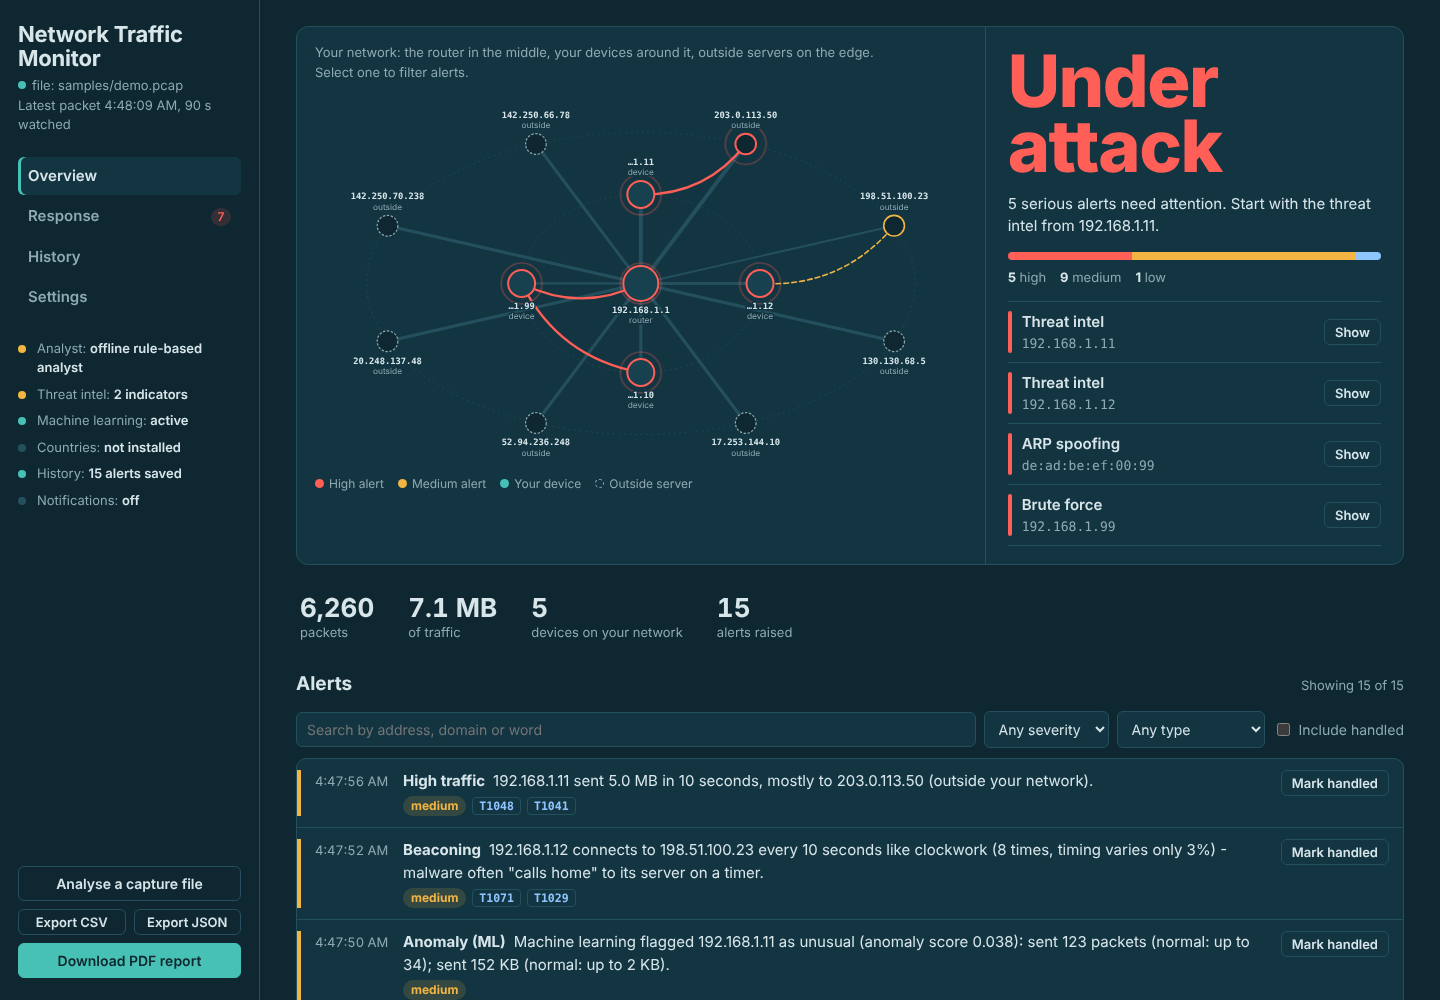
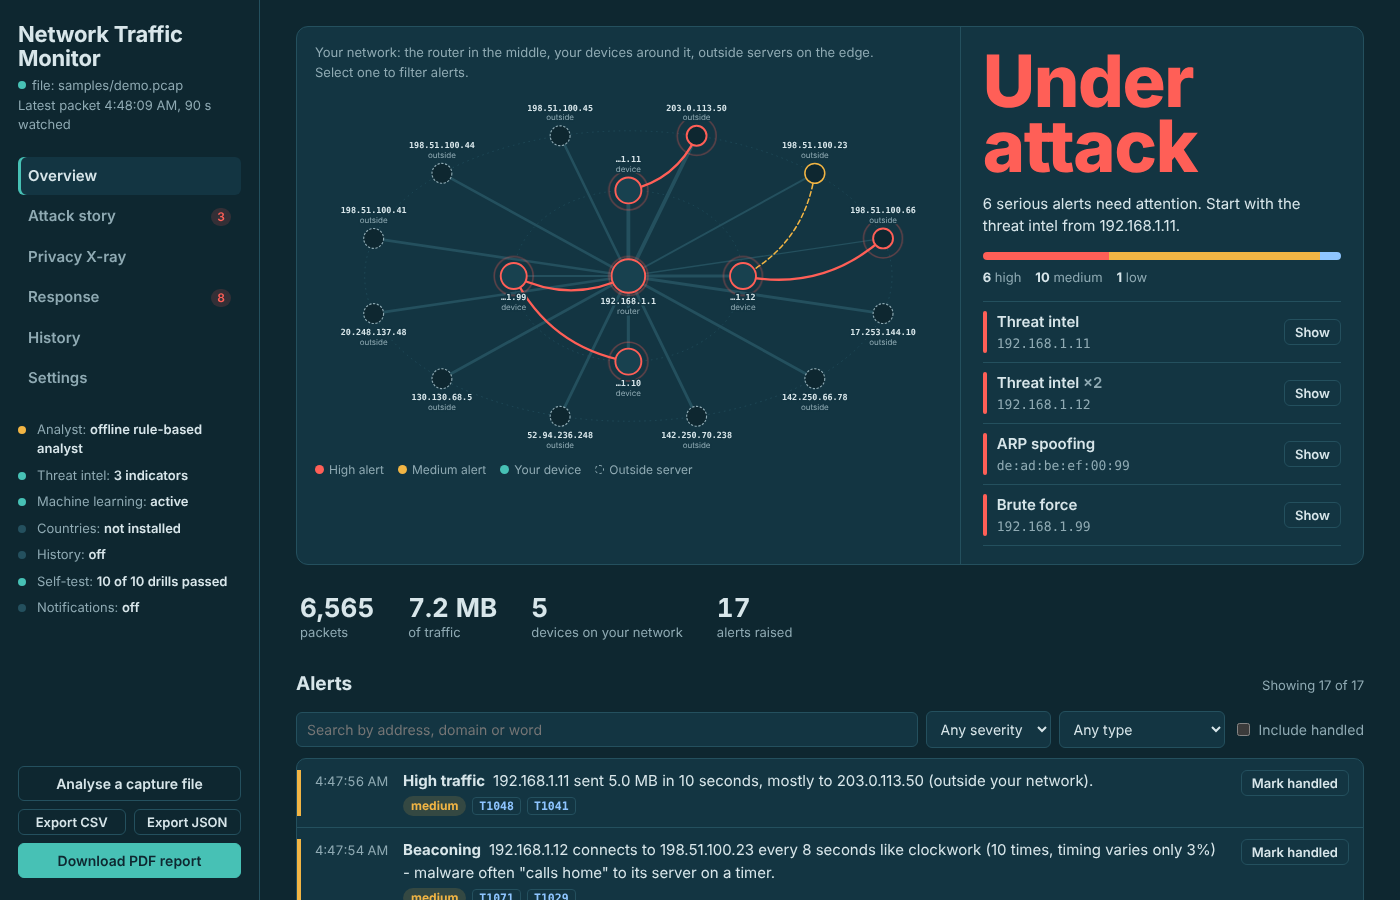
README: real-world home network test results, new screenshot; clearer Calm message

diff --git a/netmon/templates/index.html b/netmon/templates/index.html
@@ -634,7 +634,8 @@ function drawThreat(s) {
   const top = Object.values(groups).sort((a, b) => SEV_RANK[a.severity] - SEV_RANK[b.severity]
     || PRIORITY.indexOf(a.kind) - PRIORITY.indexOf(b.kind));
   $("why").textContent = level === "calm"
-    ? (s.alerts.length ? "Every alert has been handled." : "Nothing suspicious so far. Alerts appear here the moment something happens.")
+    ? (n.low ? `Nothing serious. ${n.low} low alert${n.low > 1 ? "s" : ""} to look at, such as a new device joining.`
+       : s.alerts.length ? "Every alert has been handled." : "Nothing suspicious so far. Alerts appear here the moment something happens.")
     : `${n.high ? n.high + " serious alert" + (n.high > 1 ? "s" : "") : n.medium + " alert" + (n.medium > 1 ? "s" : "")} need${(n.high || n.medium) === 1 ? "s" : ""} attention. Start with the ${top[0].kind.toLowerCase()} from ${top[0].source}.`;
   const total = Math.max(1, n.high + n.medium + n.low);
   $("sevbar").innerHTML = ["high", "medium", "low"].map((k) => `<span class="sev-${k}" style="width:${(n[k] / total) * 100}%"></span>`).join("");

diff --git a/README.md b/README.md
@@ -39,7 +39,8 @@ from your own computer or analyse a saved `.pcap` capture file (for example one 
 - MCP server, so Claude Desktop and other AI apps can query the monitor
 - Accuracy benchmark against public datasets (CIC-IDS2017, UNSW-NB15) with detection rate, time to detect,
   precision and false alarms per hour
-- 84 automated tests, GitHub Actions CI and a Docker image
+- Tested on a real home Wi-Fi network: the false alarms found there were fixed (see below)
+- 92 automated tests, GitHub Actions CI and a Docker image
 
 ![Dashboard](docs/dashboard.png)
 
@@ -518,6 +519,24 @@ python3 -m netmon benchmark lab/lab.pcap --truth lab/lab-truth.json --ml-learn 5
 
 Nothing is sent to other devices or the internet, and `lab/` is ignored by git.
 
+
+### Real-world test: a home Wi-Fi network
+
+Demo files and lab recordings are tidy; real networks are not. The monitor was run live on a home Wi-Fi network
+(a MacBook on `en0`, a router, phones and other devices) during ordinary use. The first runs raised alarms
+that were wrong, each was traced to its cause, fixed, and turned into a test using the same traffic pattern:
+
+| False alarm on real traffic | Cause | Fix |
+| --- | --- | --- |
+| "Port scan" from the router | Its DNS replies go to a new random port on the laptop each time, and UDP replies were counted as connection attempts | Replies from a service's well-known port are not connection attempts |
+| "High traffic" from outside servers | Video and update downloads were treated like uploads | Only data sent *by your own devices* counts |
+| "Beaconing" to 224.0.0.251 | Macs announce themselves on multicast (mDNS) every few seconds, and multicast was treated as "outside" | Multicast, broadcast, link-local and loopback count as the local network |
+| "Suspicious DNS" under akadns.net / cloudflare.net | Content-delivery networks use random-looking server names on purpose | A list of delivery networks is ignored (editable in Settings) |
+| The AI analyst invented an attack when nothing was detected | A small local model (qwen2.5:7b) filled an empty story with a textbook attack | No AI story without alerts, and any answer naming an address that never appeared in the traffic is discarded |
+
+After the fixes the same network stays **Calm**, with only genuine "New device" alerts when a phone joins.
+Every fix keeps the demo at 8 of 8 attacks and the self lab at 4 of 4.
+
 ## Tests and CI
 
 ```bash
@@ -527,7 +546,7 @@ python3 -m pytest
 GitHub Actions (`.github/workflows/tests.yml`) runs the tests on Python 3.10, 3.11 and 3.12 on every push, runs
 the demo, and builds and runs the Docker image. The badge at the top shows the result.
 
-84 tests cover the JA4 fingerprint (against the specification's example), TLS reassembly, DNS/CNAME and DHCP
+92 tests cover the JA4 fingerprint (against the specification's example), TLS reassembly, DNS/CNAME and DHCP
 parsing, the Privacy X-ray, the self-test (including that drills never reach the real alerts), the attack story
 (including an attack that spreads), MITRE tagging, every threat-intelligence feed format and the feed download, the ML detector
 (learning, flagging only unusual behaviour, the demo capture, running without scikit-learn), and each detection rule, false-positive checks (normal browsing, slow connections, replies, ordinary
